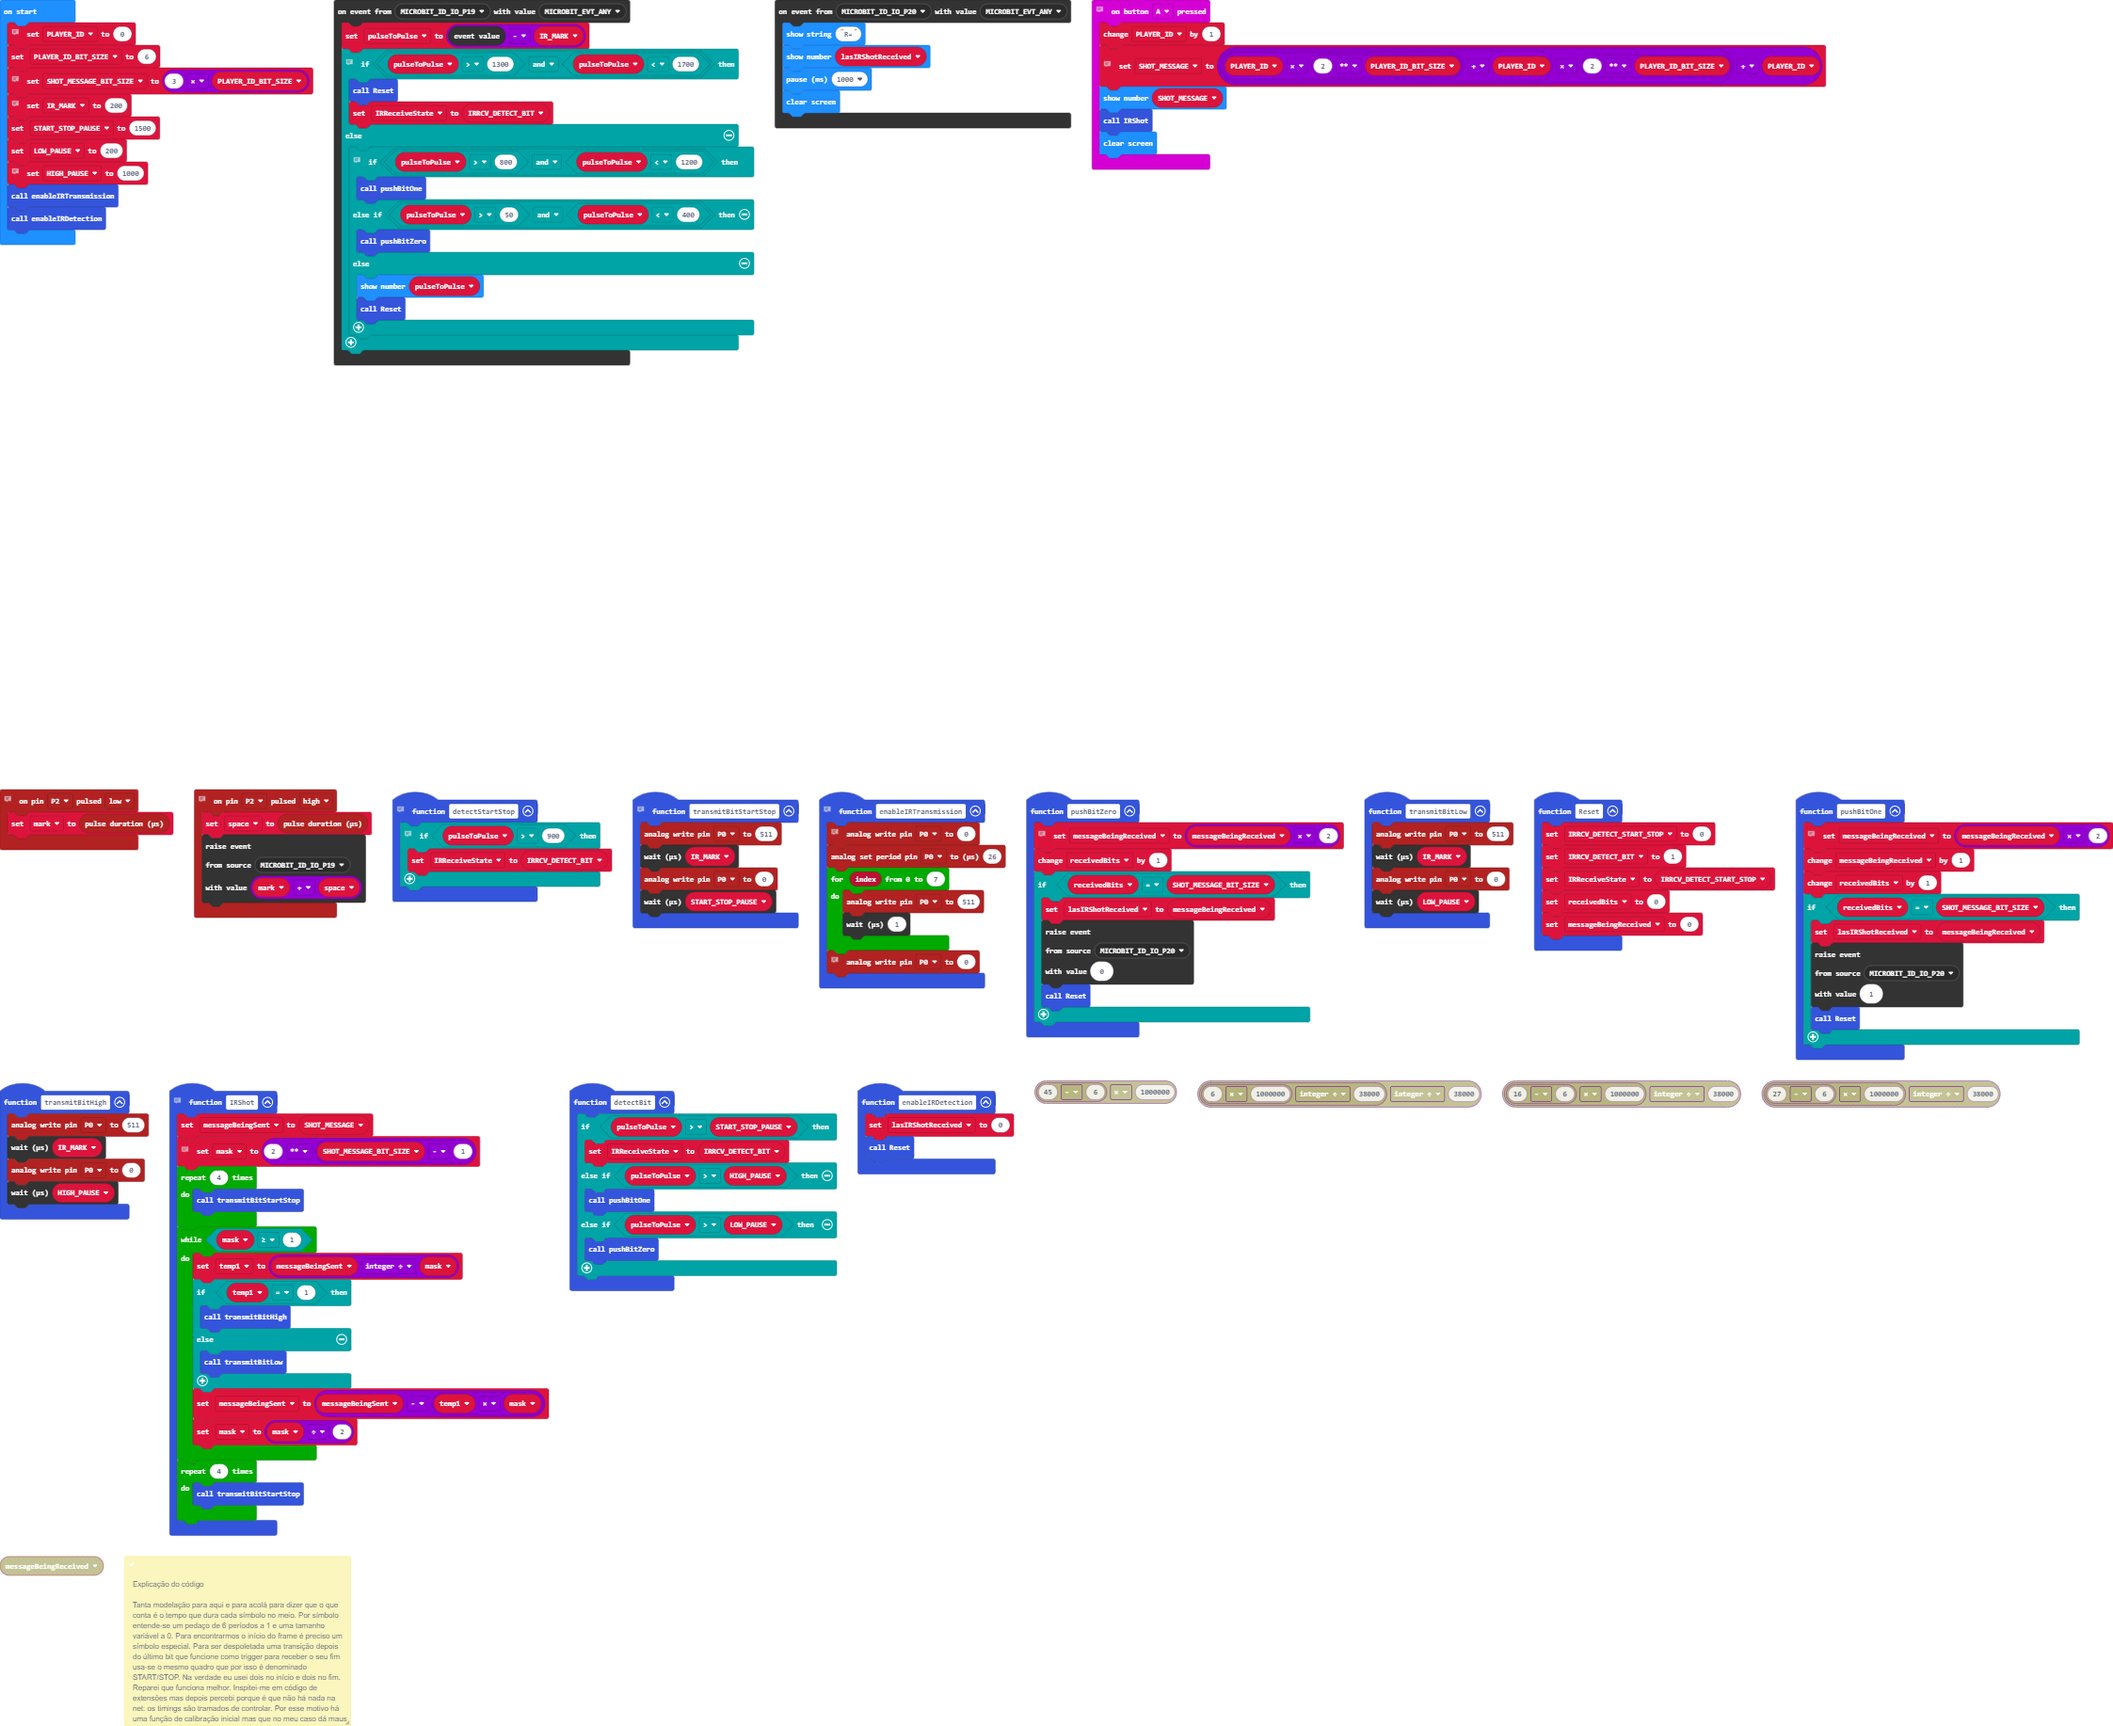
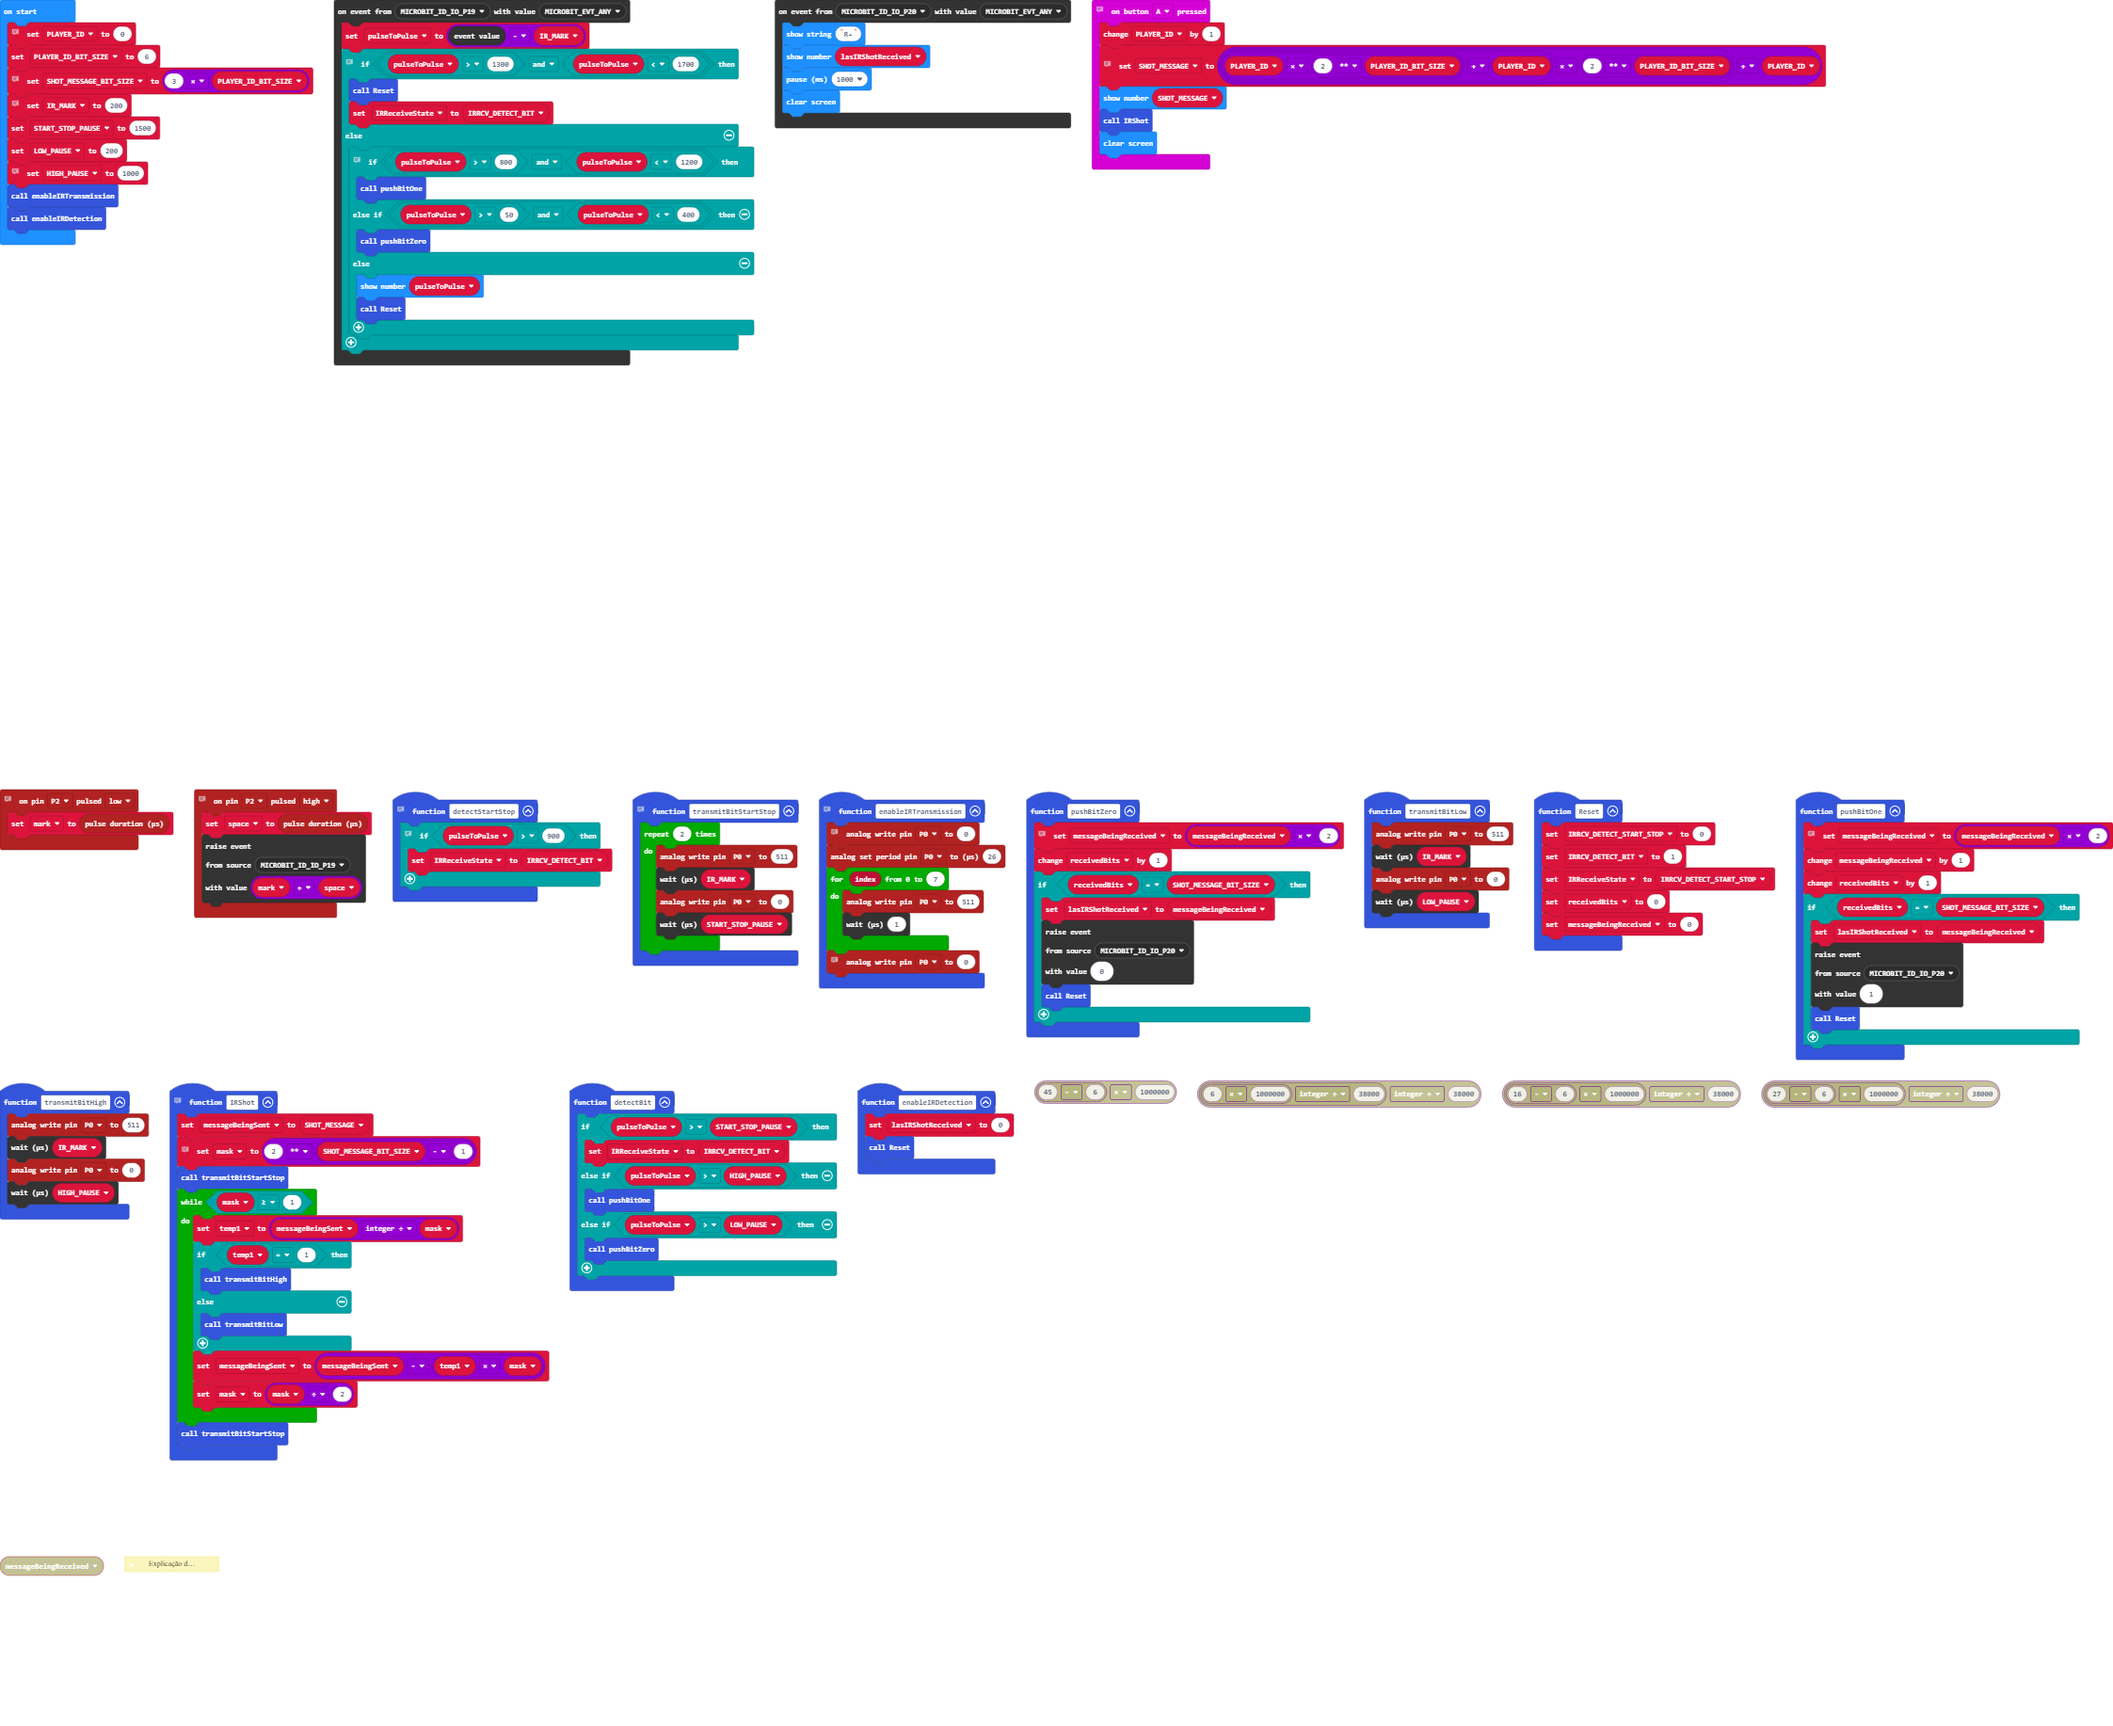
Update main.blocks, main.ts

Changed region(s): [[0.0312, 0.6527, 0.2806, 1.0], [0.2806, 0.4662, 0.4053, 0.5594]]

diff --git a/main.ts b/main.ts
@@ -158,10 +158,12 @@ input.onButtonPressed(Button.A, function () {
 })
 // A calibração parece não estar a resultar. Medi e afinei com valores fixos. O bloco ao lado é o código original (deixo para referência).
 function transmitBitStartStop () {
-    pins.analogWritePin(AnalogPin.P0, 511)
-    control.waitMicros(IR_MARK)
-    pins.analogWritePin(AnalogPin.P0, 0)
-    control.waitMicros(START_STOP_PAUSE)
+    for (let index = 0; index < 2; index++) {
+        pins.analogWritePin(AnalogPin.P0, 511)
+        control.waitMicros(IR_MARK)
+        pins.analogWritePin(AnalogPin.P0, 0)
+        control.waitMicros(START_STOP_PAUSE)
+    }
 }
 // Fonte de inspiração:
 // 
@@ -262,9 +264,7 @@ function IRShot () {
     // Em binário: 0100 0000 0000 0000
     // A máscara será usada para transmitir bit a bit
     mask = 2 ** (SHOT_MESSAGE_BIT_SIZE - 1)
-    for (let index = 0; index < 4; index++) {
-        transmitBitStartStop()
-    }
+    transmitBitStartStop()
     while (mask >= 1) {
         temp1 = Math.idiv(messageBeingSent, mask)
         if (temp1 == 1) {
@@ -275,9 +275,7 @@ function IRShot () {
         messageBeingSent = messageBeingSent - temp1 * mask
         mask = mask / 2
     }
-    for (let index = 0; index < 4; index++) {
-        transmitBitStartStop()
-    }
+    transmitBitStartStop()
 }
 let temp1 = 0
 let mask = 0
